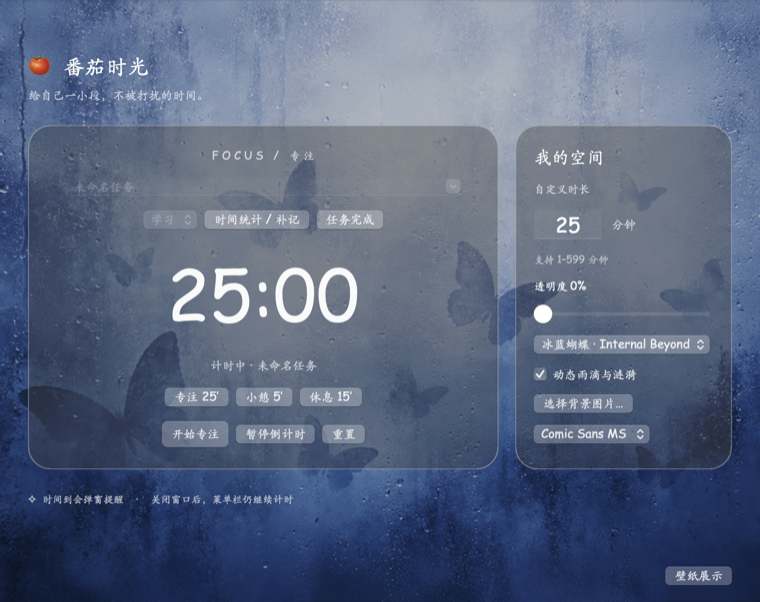
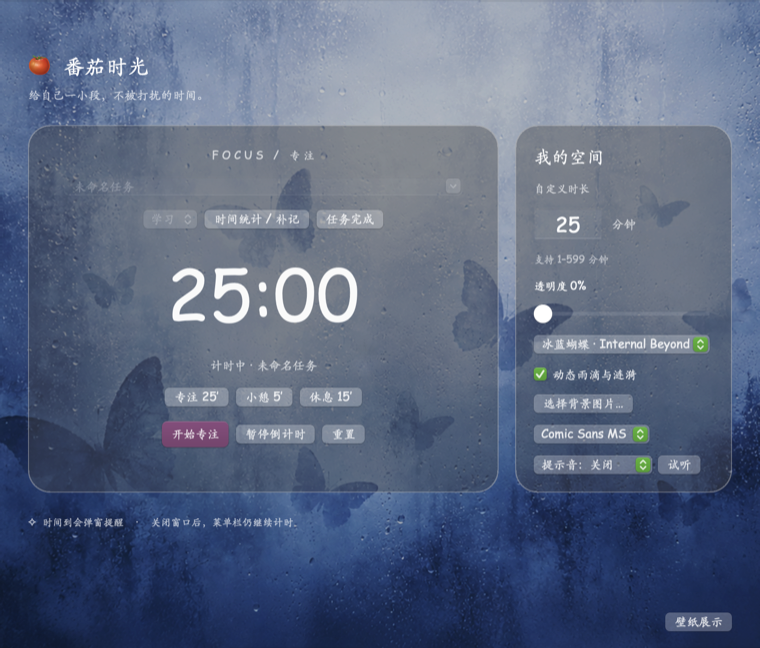
Add optional reminder sounds, custom audio and preview

diff --git a/Sources/WindowUI.swift b/Sources/WindowUI.swift
@@ -5,7 +5,7 @@ extension AppDelegate {
     @objc func showSettings() {
         NSApp.setActivationPolicy(.regular)
         if settings == nil {
-            let window = NSWindow(contentRect: NSRect(x: 0, y: 0, width: 820, height: 650), styleMask: [.titled, .closable, .miniaturizable, .fullSizeContentView], backing: .buffered, defer: false)
+            let window = NSWindow(contentRect: NSRect(x: 0, y: 0, width: 820, height: 700), styleMask: [.titled, .closable, .miniaturizable, .fullSizeContentView], backing: .buffered, defer: false)
             window.title = "🍅 菜单栏番茄钟"
             window.titlebarAppearsTransparent = true
             window.titleVisibility = .hidden
@@ -92,8 +92,16 @@ extension AppDelegate {
             fonts.selectItem(at: AppFont.useComic ? 0 : 1)
             fonts.target = self
             fonts.action = #selector(changeFont(_:))
+            let sounds = NSPopUpButton()
+            sounds.addItems(withTitles: ["提示音：关闭", "Ping", "Glass", "Pop", "Purr", "自选音频…"])
+            sounds.target = self
+            sounds.action = #selector(changeSound(_:))
+            sounds.widthAnchor.constraint(equalToConstant: 128).isActive = true
+            soundPicker = sounds
+            refreshSoundPicker()
+            let soundRow = glassStack([sounds, glassButton("试听", target: self, action: #selector(previewSound))], vertical: false, spacing: 6)
             let options = glassStack([glassLabel("我的空间", size: 19), glassLabel("自定义时长", size: 12, muted: true), durationRow, error,
-                opacityText, slider, picker, motion, imageButton, fonts], spacing: 13)
+                opacityText, slider, picker, motion, imageButton, fonts, soundRow], spacing: 13)
             let optionsCard = GlassCard(content: options, padding: 20)
             optionsCard.widthAnchor.constraint(equalToConstant: 234).isActive = true
             let cards = glassStack([focusCard, optionsCard], vertical: false, spacing: 18)
@@ -193,4 +201,58 @@ extension AppDelegate {
         controlsLayout.isHidden.toggle()
         showcaseButton?.title = controlsLayout.isHidden ? "返回番茄钟" : "壁纸展示"
     }
+}
+
+
+extension AppDelegate {
+    var selectedSound: String { UserDefaults.standard.string(forKey: "reminderSound") ?? "" }
+
+    func refreshSoundPicker() {
+        let names = ["", "Ping", "Glass", "Pop", "Purr", "custom"]
+        soundPicker?.selectItem(at: names.firstIndex(of: selectedSound) ?? 0)
+        soundPicker?.toolTip = selectedSound == "custom" ? "自选音频已保存；再次选择可更换" : "关闭仅静音，时间到仍弹窗"
+    }
+
+    @objc func changeSound(_ sender: NSPopUpButton) {
+        reminderSound?.stop()
+        reminderSound = nil
+        if sender.indexOfSelectedItem == 5 {
+            let panel = NSOpenPanel()
+            panel.allowedContentTypes = [.audio]
+            panel.allowsMultipleSelection = false
+            guard panel.runModal() == .OK, let url = panel.url else { refreshSoundPicker(); return }
+            do {
+                let size = try url.resourceValues(forKeys: [.fileSizeKey]).fileSize ?? 0
+                guard size > 0, size <= 20_000_000, NSSound(contentsOf: url, byReference: false) != nil else {
+                    throw ActivityImport.error("请选择可播放的音频文件（最大 20 MB）。")
+                }
+                let folder = try FileManager.default.url(for: .applicationSupportDirectory, in: .userDomainMask, appropriateFor: nil, create: true).appendingPathComponent(Bundle.main.bundleIdentifier ?? "local.ry.menubar-pomodoro")
+                try FileManager.default.createDirectory(at: folder, withIntermediateDirectories: true)
+                let destination = folder.appendingPathComponent("reminder-audio")
+                try Data(contentsOf: url).write(to: destination, options: .atomic)
+                UserDefaults.standard.set(destination.path, forKey: "reminderSoundPath")
+                UserDefaults.standard.set("custom", forKey: "reminderSound")
+            } catch { NSApp.presentError(error) }
+        } else {
+            UserDefaults.standard.set(["", "Ping", "Glass", "Pop", "Purr"][sender.indexOfSelectedItem], forKey: "reminderSound")
+        }
+        refreshSoundPicker()
+    }
+
+    func makeReminderSound() -> NSSound? {
+        if selectedSound == "custom" {
+            return UserDefaults.standard.string(forKey: "reminderSoundPath").flatMap { NSSound(contentsOfFile: $0, byReference: false) }
+        }
+        guard ["Ping", "Glass", "Pop", "Purr"].contains(selectedSound) else { return nil }
+        return NSSound(named: NSSound.Name(selectedSound))
+    }
+
+    func playReminderSound() {
+        reminderSound?.stop()
+        reminderSound = makeReminderSound()
+        reminderSound?.loops = false
+        reminderSound?.play()
+    }
+
+    @objc func previewSound() { playReminderSound() }
 }

diff --git a/Sources/AppDelegate.swift b/Sources/AppDelegate.swift
@@ -22,6 +22,8 @@ final class AppDelegate: NSObject, NSApplicationDelegate, NSWindowDelegate {
     var errorLabel: NSTextField?
     var background: DreamBackground?
     var controlsLayout: NSView?
+    var soundPicker: NSPopUpButton?
+    var reminderSound: NSSound?
     var themePicker: NSPopUpButton?
     var showcaseButton: NSButton?
     var phaseLabel: NSTextField?
@@ -248,7 +250,7 @@ final class AppDelegate: NSObject, NSApplicationDelegate, NSWindowDelegate {
     func showReminder() {
         guard !isShowingReminder else { return }
         isShowingReminder = true
-        NSSound(named: "Glass")?.play()
+        playReminderSound()
         NSApp.activate(ignoringOtherApps: true)
         let alert = NSAlert()
         alert.messageText = "时间到了 🍅"
@@ -263,6 +265,8 @@ final class AppDelegate: NSObject, NSApplicationDelegate, NSWindowDelegate {
         applyTransparency()
         alert.window.collectionBehavior = [.moveToActiveSpace, .fullScreenAuxiliary]
         let response = alert.runModal()
+        reminderSound?.stop()
+        reminderSound = nil
         reminderWindow = nil
         isShowingReminder = false
         if response == .alertSecondButtonReturn { let item = NSMenuItem(); item.tag = 5; startPreset(item) }

diff --git a/Tests/prepare-ui-smoke.py b/Tests/prepare-ui-smoke.py
@@ -4,6 +4,13 @@ source = Path("Sources/AppDelegate.swift").read_text()
 source = source.replace("if let identifier = Bundle.main.bundleIdentifier,", "if false, let identifier = Bundle.main.bundleIdentifier,")
 tests = r''' 
     func runUISmoke() {
+        precondition(makeReminderSound() == nil, "Sound defaults to off")
+        soundPicker!.selectItem(at: 1)
+        changeSound(soundPicker!)
+        precondition(selectedSound == "Ping" && makeReminderSound() != nil)
+        soundPicker!.selectItem(at: 0)
+        changeSound(soundPicker!)
+        precondition(selectedSound.isEmpty && makeReminderSound() == nil)
         let original = countdown
         let savedMotion = UserDefaults.standard.object(forKey: "wallpaperMotion")
         let savedTheme = UserDefaults.standard.object(forKey: "backgroundTheme")

diff --git a/docs/RELEASE_NOTES.md b/docs/RELEASE_NOTES.md
@@ -1,7 +1,7 @@
-## 番茄时光 1.7.0
+## 番茄时光 1.7.1
 
-- 记录表仅展示实际记录，提供分类汇总卡片、交替行底色、日期与任务累计切换。
-- 保留手动补记，新增未记录区间 JSON 导出与 AI / 手动 JSON 导入，预览确认后整批校验保存。
-- 新增 Comic Sans MS / 系统字体切换；中文和缺失字体自动回退，不捆绑字体文件。
+- 提示音默认关闭，时间到仍弹窗。
+- 支持 Ping / Glass / Pop / Purr、自选音频（最大 20 MB）及试听。
+- 自动保存音效设置，自选音频复制到本机应用数据目录；关闭提醒时停止声音。
 
-数据保持本地，软件不自动调用模型或上传记录。macOS 13+ Universal，实测 macOS 15.5 Apple Silicon；未经 Apple 公证。图片与水波许可不变，安装包仅限非商业用途。
+macOS 13+ Universal，未经 Apple 公证。图片与水波许可不变，安装包仅限非商业用途。

diff --git a/README.en.md b/README.en.md
@@ -70,3 +70,5 @@ Name a task, choose Study / Work / Break / Other, and start. Same-name tasks sha
 Statistics now use category cards and a striped table, with daily records and all-time task totals. Unrecorded time is not listed as activity. Manual entries remain available; AI-generated JSON can be previewed and confirmed before an atomic import. See [JSON v1 interface (Chinese)](docs/ACTIVITY_IMPORT.md). No AI service is called automatically.
 
 Choose Comic Sans MS or System Font in the main window. Comic Sans MS is used when installed; unsupported glyphs and unavailable fonts fall back to system fonts. No font files are bundled.
+
+Reminder sound is off by default. Choose a sound or import your own audio (up to 20 MB), preview it, or mute it without disabling the popup. Preferences persist across launches.

diff --git a/README.md b/README.md
@@ -19,7 +19,7 @@ macOS 13+，Universal 支持 Apple Silicon / Intel。已实测 macOS 15.5 / Appl
 ## 功能
 
 - 25/5/15 分钟预设、自定义 1–599 分钟，支持暂停、继续和重置。
-- 菜单栏同步倒计时，到时弹窗并播放提示音。
+- 菜单栏同步倒计时，到时弹窗；提示音默认关闭，可选音效或导入自选音频，支持试听并记住设置。
 - 窗口常驻、透明度调节、自选背景和动态蝴蝶水波壁纸。
 - 任务名称、学习/工作/休息/其他分类；每日时间线、分类统计与任务累计。
 - 支持任务完成标记、时间补记和 CSV 导出；记录仅保存在本机。
